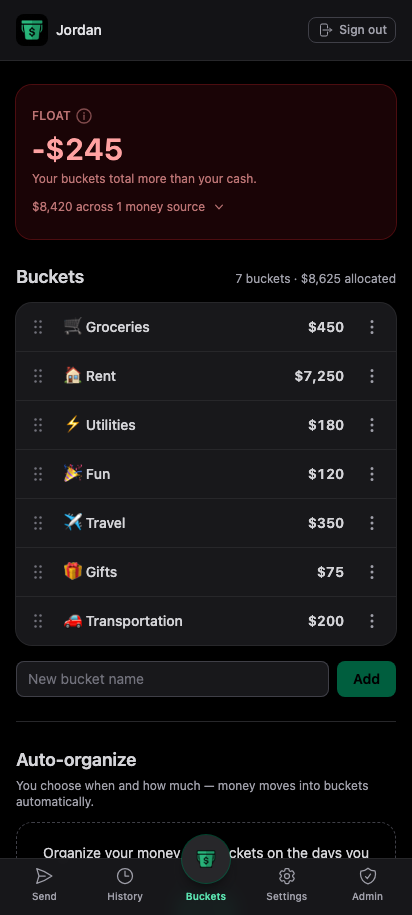
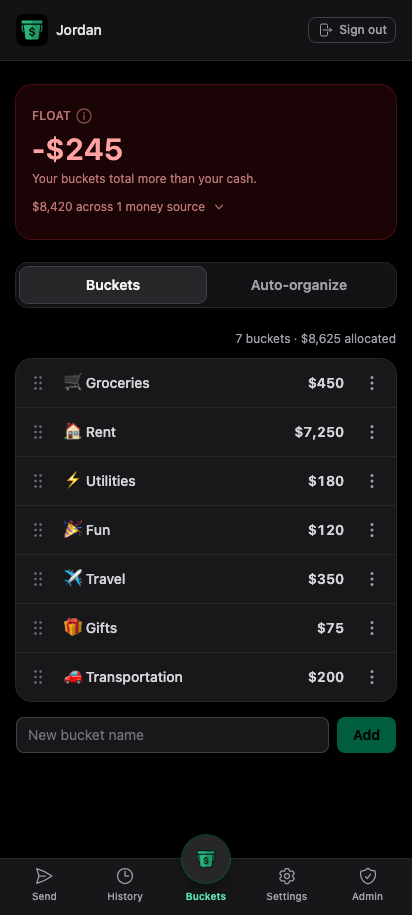
Refresh PWA install screenshots and document the capture flow. (#186)
Update manifest PNGs for Buckets tabs UI, fix Playwright capture waits,
and add an Install experience gallery to the README.

diff --git a/tests/pwa-screenshots/capture.spec.ts b/tests/pwa-screenshots/capture.spec.ts
@@ -43,7 +43,8 @@ test('capture PWA install screenshots', async ({ page }) => {
 
   await page.waitForURL('/')
   await page.getByText(PWA_SCREENSHOT_ADMIN_DISPLAY_NAME).waitFor()
-  await page.getByRole('heading', { name: NAV_BUCKETS_LABEL }).waitFor()
+  const bucketsTab = page.getByRole('tab', { name: NAV_BUCKETS_LABEL })
+  await expect(bucketsTab).toHaveAttribute('aria-selected', 'true')
   for (const bucket of PWA_SCREENSHOT_BUCKETS) {
     await page.getByText(bucket.name, { exact: true }).waitFor()
   }
@@ -68,7 +69,8 @@ test('capture PWA install screenshots', async ({ page }) => {
 
   await applyPwaScreenshotRebalance(adminEmail)
   await page.goto('/')
-  await waitForNavSettled(page, 'Buckets')
+  await waitForNavSettled(page, NAV_BUCKETS_LABEL)
+  await expect(bucketsTab).toHaveAttribute('aria-selected', 'true')
   await page.getByText(FLOAT_NEGATIVE_HINT).waitFor()
   await page.screenshot({ path: join(outputDir, 'buckets-rebalance.png') })
 })

diff --git a/README.md b/README.md
@@ -19,6 +19,27 @@ and architecture. **Auto-organize** (automatic organization into buckets;
 See [AGENTS.md](./AGENTS.md) for AI agent / contributor
 entry points.
 
+## Install experience
+
+Bucket My Money ships as an installable PWA. On Chromium browsers, the
+[Richer Install UI](https://web.dev/patterns/web-apps/richer-install-ui/) reads
+`screenshots` from the web app manifest — the same assets committed under
+`public/screenshots/`, captured at **412×915** to match a typical phone viewport.
+
+<p align="center">
+  <img src="public/screenshots/buckets.png" alt="Buckets tab — Float, emoji buckets, and Auto-organize tabs" width="49%" />
+  <img src="public/screenshots/buckets-rebalance.png" alt="Buckets tab — negative Float rebalance signal" width="49%" />
+</p>
+<p align="center">
+  <img src="public/screenshots/history.png" alt="History tab — bucket moves and sends" width="49%" />
+  <img src="public/screenshots/send.png" alt="Send tab — allowance to a kid" width="49%" />
+</p>
+
+**Regenerate after UI changes:** seed the `pwa-screenshots` scenario locally, sign
+in, then run `npm run pwa:screenshots` (Playwright). Bucket names, amounts, and
+manifest entries live in [`scripts/seed/pwaScreenshots.ts`](./scripts/seed/pwaScreenshots.ts).
+See [Local database scenarios](#local-database-scenarios) for the `pwa-screenshots` seed.
+
 ## Stack
 
 - Vite + React 19 + TypeScript
@@ -64,6 +85,7 @@ use another for `npm run dev` (or `npm run dev:phone`). After pulling SQL change
 | `node scripts/supabase-env.mjs` | Print `export …` lines (for manual copy) |
 | `npm run test:db` | RLS + `move_money` + transaction visibility (local Supabase) |
 | `npm run test:e2e` | Playwright smoke (Docker + local Supabase; first run: `npx playwright install chromium`) |
+| `npm run pwa:screenshots` | Refresh PWA manifest install PNGs (local seed + Playwright; not CI) |
 | `npm run test:all` | Unit + database tests |
 | `npm run check:full` | Lint + all tests + production build |
 
@@ -105,9 +127,8 @@ another email to switch — no reset needed.
 | `shared-only` | `shared-only@bmm.dev` | Shared member (PIN **0000**), no kid |
 | `pwa-screenshots` | `pwa-screenshots@bmm.dev` | Emoji buckets, green Float — PWA install screenshot source |
 
-**PWA install screenshots (Chrome Richer Install UI):** seed `pwa-screenshots`, sign in locally, then
-`npm run pwa:screenshots` to refresh PNGs under `public/screenshots/` (green Buckets, rebalance Buckets,
-History, Send — committed to the repo). Bucket
+**PWA install screenshots (Chrome Richer Install UI):** see [Install experience](#install-experience) for the gallery. To refresh PNGs: seed `pwa-screenshots`, sign in locally, then
+`npm run pwa:screenshots`. Bucket
 names and amounts live in [`scripts/seed/pwaScreenshots.ts`](./scripts/seed/pwaScreenshots.ts).
 
 CI does **not** run seeds — database tests still create their own fixtures.
@@ -224,6 +245,7 @@ checks are deferred until a possible paid SaaS phase.
 - Admin: assign linked bank accounts to kids (family pool default)
 - Dark theme (pure black + zinc palette)
 - PWA icons, favicons, apple-touch-icon, offline fallback, service worker registration
+- PWA manifest install screenshots (Chrome Richer Install UI; Playwright capture flow)
 - Background sign-out (60s hidden → local sign-out for all roles; branded gate on hide; family PIN re-auth)
 - Session-scoped auth (kill / cold PWA reopen → sign in again; tab reload keeps session)
 - **Auto-organize:** admin CRUD, pause/resume, Run now (confirm sheet), Shared
